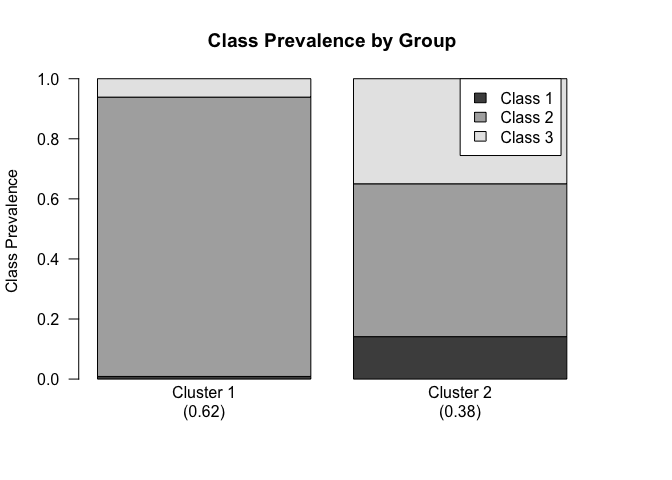
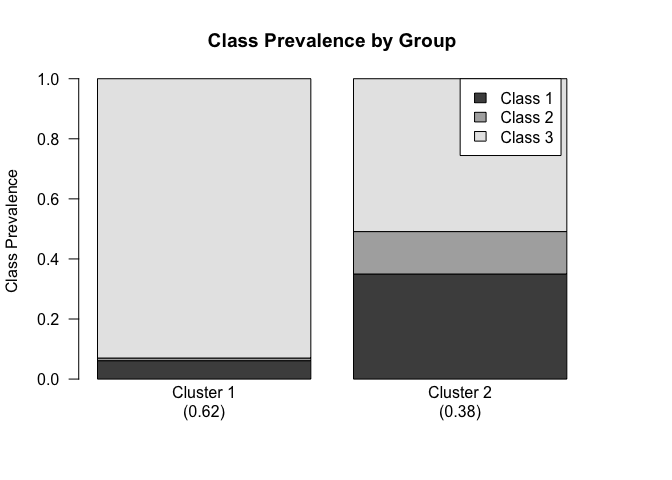
README

Changed region(s): [[0.125, 0.1875, 0.4688, 0.8125], [0.5, 0.5625, 0.8438, 0.7188], [0.5, 0.375, 0.8438, 0.5]]

diff --git a/README.md b/README.md
@@ -56,7 +56,7 @@ summary(lca)
 #> 
 #> Mean Prevalence for latent classes for each group:
 #>     Class 1 Class 2 Class 3
-#> ALL 0.44226 0.19471 0.36303
+#> ALL 0.36303 0.19471 0.44226
 #> 
 #> Number of parameters : 20 
 #> 
@@ -77,13 +77,13 @@ summary(lca)
 #> Estimated model parameters :
 #> Gamma :
 #>     Class 1 Class 2 Class 3
-#> ALL  0.4423  0.1947   0.363
+#> ALL   0.363  0.1947  0.4423
 #> 
 #> Rho (Y = 1) :
 #>         DEFECT   HLTH   RAPE   POOR SINGLE NOMORE
-#> Class 1 0.9845 1.0000 0.9901 0.9431 0.9394 0.9984
+#> Class 1 0.8281 0.9782 0.8522 0.1115 0.0514 0.0985
 #> Class 2 0.0626 0.4481 0.0622 0.0000 0.0000 0.0157
-#> Class 3 0.8281 0.9782 0.8522 0.1115 0.0514 0.0985
+#> Class 3 0.9845 1.0000 0.9901 0.9431 0.9394 0.9984
 plot(lca)
 ```
 
@@ -105,10 +105,10 @@ summary(mglca)
 #> 
 #> Mean Prevalence for latent classes for each group:
 #>             Class 1 Class 2 Class 3
-#> <= HS       0.42511 0.30478 0.27011
-#> HIGH SCHOOL 0.40865 0.20473 0.38661
-#> COLLEGE     0.33797 0.15034 0.51168
-#> GRADUATE    0.10239 0.15688 0.74073
+#> <= HS       0.27011 0.42510 0.30479
+#> HIGH SCHOOL 0.38661 0.40865 0.20474
+#> COLLEGE     0.51168 0.33797 0.15035
+#> GRADUATE    0.74073 0.10239 0.15689
 #> 
 #> Number of parameters : 26 
 #> Number of groups : 4 
@@ -130,16 +130,16 @@ summary(mglca)
 #> Estimated model parameters :
 #> Gamma :
 #>             Class 1 Class 2 Class 3
-#> <= HS        0.4251  0.3048  0.2701
-#> HIGH SCHOOL  0.4087  0.2047  0.3866
-#> COLLEGE      0.3380  0.1503  0.5117
-#> GRADUATE     0.1024  0.1569  0.7407
+#> <= HS        0.2701  0.4251  0.3048
+#> HIGH SCHOOL  0.3866  0.4086  0.2047
+#> COLLEGE      0.5117  0.3380  0.1503
+#> GRADUATE     0.7407  0.1024  0.1569
 #> 
 #> Rho (Y = 1) :
 #>         DEFECT   HLTH   RAPE   POOR SINGLE NOMORE
-#> Class 1 0.8348 0.9792 0.8592 0.1140 0.0527 0.1015
-#> Class 2 0.0715 0.4612 0.0699 0.0000 0.0000 0.0175
-#> Class 3 0.9848 1.0000 0.9902 0.9451 0.9417 0.9978
+#> Class 1 0.9848 1.0000 0.9902 0.9451 0.9417 0.9978
+#> Class 2 0.8348 0.9792 0.8592 0.1140 0.0527 0.1015
+#> Class 3 0.0715 0.4613 0.0699 0.0000 0.0000 0.0175
 plot(mglca)
 ```
 
@@ -161,10 +161,10 @@ summary(mglcr)
 #> 
 #> Mean Prevalence for latent classes for each group:
 #>             Class 1 Class 2 Class 3
-#> <= HS       0.26927 0.31364 0.41709
-#> HIGH SCHOOL 0.38580 0.21045 0.40375
-#> COLLEGE     0.51154 0.15513 0.33333
-#> GRADUATE    0.74040 0.16202 0.09758
+#> <= HS       0.31364 0.26926 0.41709
+#> HIGH SCHOOL 0.21045 0.38580 0.40375
+#> COLLEGE     0.15513 0.51154 0.33333
+#> GRADUATE    0.16203 0.74040 0.09758
 #> 
 #> Number of parameters : 28 
 #> Number of groups : 4 
@@ -187,48 +187,48 @@ summary(mglcr)
 #> Beta :
 #> Intercepts :
 #>                    Class 1/3 Class 2/3
-#> Group :<= HS         -0.5249   -0.6160
-#> Group :HIGH SCHOOL   -0.1416   -1.0117
-#> Group :COLLEGE        0.3260   -1.1454
-#> Group :GRADUATE       1.9376    0.1707
+#> Group :<= HS         -0.6159   -0.5249
+#> Group :HIGH SCHOOL   -1.0117   -0.1416
+#> Group :COLLEGE       -1.1454    0.3260
+#> Group :GRADUATE       0.1707    1.9376
 #> 
 #> Coefficients :
 #> Class 1/3 Class 2/3 
-#>    0.1774    0.6067 
+#>    0.6067    0.1774 
 #> 
 #> Rho (Y = 1) :
 #>         DEFECT   HLTH   RAPE   POOR SINGLE NOMORE
-#> Class 1 0.9848 1.0000 0.9902 0.9457 0.9422 0.9981
-#> Class 2 0.0803 0.4714 0.0792 0.0000 0.0000 0.0190
+#> Class 1 0.0803 0.4714 0.0793 0.0000 0.0000 0.0190
+#> Class 2 0.9848 1.0000 0.9902 0.9457 0.9422 0.9981
 #> Class 3 0.8424 0.9811 0.8662 0.1164 0.0544 0.1030
 coef(mglcr)
 #> Intercept :
 #> 
 #> Group <= HS:
 #>             Odds Ratio Coefficient  Std. Error  t value  Pr(>|t|)  
-#> Class 1 / 3     0.5916     -0.5249      0.2798   -1.876    0.0613 .
-#> Class 2 / 3     0.5401     -0.6160      0.3133   -1.966    0.0499 *
+#> Class 1 / 3     0.5401     -0.6159      0.3133   -1.966    0.0499 *
+#> Class 2 / 3     0.5916     -0.5249      0.2798   -1.876    0.0613 .
 #> ---
 #> Signif. codes:  0 '***' 0.001 '**' 0.01 '*' 0.05 '.' 0.1 ' ' 1
 #> 
 #> Group HIGH SCHOOL:
 #>             Odds Ratio Coefficient  Std. Error  t value  Pr(>|t|)    
-#> Class 1 / 3     0.8680     -0.1416      0.1713   -0.827     0.409    
-#> Class 2 / 3     0.3636     -1.0117      0.2561   -3.950  8.97e-05 ***
+#> Class 1 / 3     0.3636     -1.0117      0.2561   -3.950  8.97e-05 ***
+#> Class 2 / 3     0.8680     -0.1416      0.1713   -0.827     0.409    
 #> ---
 #> Signif. codes:  0 '***' 0.001 '**' 0.01 '*' 0.05 '.' 0.1 ' ' 1
 #> 
 #> Group COLLEGE:
 #>             Odds Ratio Coefficient  Std. Error  t value  Pr(>|t|)    
-#> Class 1 / 3     1.3854      0.3260      0.2061    1.582  0.114301    
-#> Class 2 / 3     0.3181     -1.1454      0.3158   -3.627  0.000317 ***
+#> Class 1 / 3     0.3181     -1.1454      0.3158   -3.627  0.000317 ***
+#> Class 2 / 3     1.3854      0.3260      0.2061    1.582  0.114300    
 #> ---
 #> Signif. codes:  0 '***' 0.001 '**' 0.01 '*' 0.05 '.' 0.1 ' ' 1
 #> 
 #> Group GRADUATE:
 #>             Odds Ratio Coefficient  Std. Error  t value  Pr(>|t|)    
-#> Class 1 / 3     6.9418      1.9376      0.4819    4.021  6.73e-05 ***
-#> Class 2 / 3     1.1861      0.1707      0.6251    0.273     0.785    
+#> Class 1 / 3     1.1861      0.1707      0.6251    0.273     0.785    
+#> Class 2 / 3     6.9418      1.9376      0.4819    4.021  6.73e-05 ***
 #> ---
 #> Signif. codes:  0 '***' 0.001 '**' 0.01 '*' 0.05 '.' 0.1 ' ' 1
 #> 
@@ -236,13 +236,13 @@ coef(mglcr)
 #> 
 #> Class 1 / 3 :
 #>           Odds Ratio Coefficient  Std. Error  t value  Pr(>|t|)    
-#> SEXFEMALE    1.19411     0.17740     0.04866    3.646  0.000296 ***
+#> SEXFEMALE    1.83434     0.60668     0.06391    9.493    <2e-16 ***
 #> ---
 #> Signif. codes:  0 '***' 0.001 '**' 0.01 '*' 0.05 '.' 0.1 ' ' 1
 #> 
 #> Class 2 / 3 :
 #>           Odds Ratio Coefficient  Std. Error  t value  Pr(>|t|)    
-#> SEXFEMALE    1.83433     0.60668     0.06391    9.493    <2e-16 ***
+#> SEXFEMALE    1.19411     0.17740     0.04866    3.646  0.000296 ***
 #> ---
 #> Signif. codes:  0 '***' 0.001 '**' 0.01 '*' 0.05 '.' 0.1 ' ' 1
 
@@ -267,8 +267,8 @@ summary(mlca)
 #> 
 #> Mean Prevalence for latent classes:
 #>           Class 1 Class 2 Class 3
-#> Cluster 1 0.00877 0.92994 0.06129
-#> Cluster 2 0.14126 0.50889 0.34985
+#> Cluster 1 0.06128 0.00877 0.92995
+#> Cluster 2 0.34985 0.14125 0.50891
 #> 
 #> 
 #> Number of parameters : 20 
@@ -294,14 +294,14 @@ summary(mlca)
 #> 
 #> Gamma :
 #>           Class 1 Class 2 Class 3
-#> Cluster 1  0.0088  0.9299  0.0613
-#> Cluster 2  0.1413  0.5089  0.3499
+#> Cluster 1  0.0613  0.0088  0.9299
+#> Cluster 2  0.3498  0.1412  0.5089
 #> 
 #> Rho (Y = 1) :
 #>          ECIGT ECIGAR   ESLT EELCIGT EHOOKAH
-#> Class 1 0.9120 0.9755 0.5621  0.9776  0.5345
-#> Class 2 0.0062 0.0043 0.0086  0.0405  0.0057
-#> Class 3 0.3436 0.1970 0.1265  0.7780  0.0439
+#> Class 1 0.3436 0.1970 0.1265  0.7780  0.0439
+#> Class 2 0.9120 0.9755 0.5621  0.9776  0.5345
+#> Class 3 0.0062 0.0043 0.0086  0.0405  0.0057
 plot(mlca)
 ```
 
@@ -330,8 +330,8 @@ summary(mlcr)
 #> 
 #> Mean Prevalence for latent classes:
 #>           Class 1 Class 2 Class 3
-#> Cluster 1 0.11856 0.58756 0.29388
-#> Cluster 2 0.02161 0.88265 0.09574
+#> Cluster 1 0.11856 0.29388 0.58756
+#> Cluster 2 0.02161 0.09574 0.88265
 #> 
 #> 
 #> Number of parameters : 22 
@@ -358,34 +358,34 @@ summary(mlcr)
 #> Beta (level 1) :
 #> $Cluster1
 #>                    Class 1/3 Class 2/3
-#> (Intercept)          -1.4687    1.6793
-#> SCH_LEVHigh School    0.7066   -1.9399
+#> (Intercept)          -3.1480   -1.6793
+#> SCH_LEVHigh School    2.6465    1.9399
 #> 
 #> $Cluster2
 #>                    Class 1/3 Class 2/3
-#> (Intercept)          -1.9555    2.9073
-#> SCH_LEVHigh School    0.7066   -1.9399
+#> (Intercept)          -4.8628   -2.9073
+#> SCH_LEVHigh School    2.6465    1.9399
 #> 
 #> 
 #> Rho (Y = 1) :
 #>          ECIGT ECIGAR   ESLT EELCIGT EHOOKAH
 #> Class 1 0.8959 0.9690 0.5382  0.9779  0.5014
-#> Class 2 0.0034 0.0037 0.0072  0.0352  0.0056
-#> Class 3 0.3144 0.1631 0.1187  0.7292  0.0388
+#> Class 2 0.3144 0.1631 0.1187  0.7292  0.0388
+#> Class 3 0.0034 0.0037 0.0072  0.0352  0.0056
 coef(mlcr)
 #> Intercept :
 #> 
 #> Cluster 1 :
 #>             Odds Ratio Coefficient  Std. Error  t value  Pr(>|t|)    
-#> Class 1 / 3     0.2302     -1.4687      0.6269   -2.343    0.0193 *  
-#> Class 2 / 3     5.3618      1.6793      0.3924    4.280     2e-05 ***
+#> Class 1 / 3    0.04294    -3.14800     0.41903   -7.513  1.01e-13 ***
+#> Class 2 / 3    0.18650    -1.67930     0.39240   -4.280  2.00e-05 ***
 #> ---
 #> Signif. codes:  0 '***' 0.001 '**' 0.01 '*' 0.05 '.' 0.1 ' ' 1
 #> 
 #> Cluster 2 :
 #>             Odds Ratio Coefficient  Std. Error  t value  Pr(>|t|)    
-#> Class 1 / 3     0.1415     -1.9555      0.9124   -2.143    0.0323 *  
-#> Class 2 / 3    18.3079      2.9073      0.4662    6.237  5.85e-10 ***
+#> Class 1 / 3   0.007729   -4.862820    0.754814   -6.442  1.60e-10 ***
+#> Class 2 / 3   0.054621   -2.907331    0.466160   -6.237  5.85e-10 ***
 #> ---
 #> Signif. codes:  0 '***' 0.001 '**' 0.01 '*' 0.05 '.' 0.1 ' ' 1
 #> 
@@ -393,14 +393,14 @@ coef(mlcr)
 #> Level 1 Coefficients :
 #> 
 #> Class 1 / 3 :
-#>                    Odds Ratio Coefficient  Std. Error  t value  Pr(>|t|)  
-#> SCH_LEVHigh School     2.0271      0.7066      0.3474    2.034    0.0422 *
+#>                    Odds Ratio Coefficient  Std. Error  t value  Pr(>|t|)    
+#> SCH_LEVHigh School    14.1039      2.6465      0.3061    8.646    <2e-16 ***
 #> ---
 #> Signif. codes:  0 '***' 0.001 '**' 0.01 '*' 0.05 '.' 0.1 ' ' 1
 #> 
 #> Class 2 / 3 :
 #>                    Odds Ratio Coefficient  Std. Error  t value  Pr(>|t|)    
-#> SCH_LEVHigh School     0.1437     -1.9399      0.2192    -8.85    <2e-16 ***
+#> SCH_LEVHigh School     6.9577      1.9399      0.2192     8.85    <2e-16 ***
 #> ---
 #> Signif. codes:  0 '***' 0.001 '**' 0.01 '*' 0.05 '.' 0.1 ' ' 1
 ```
